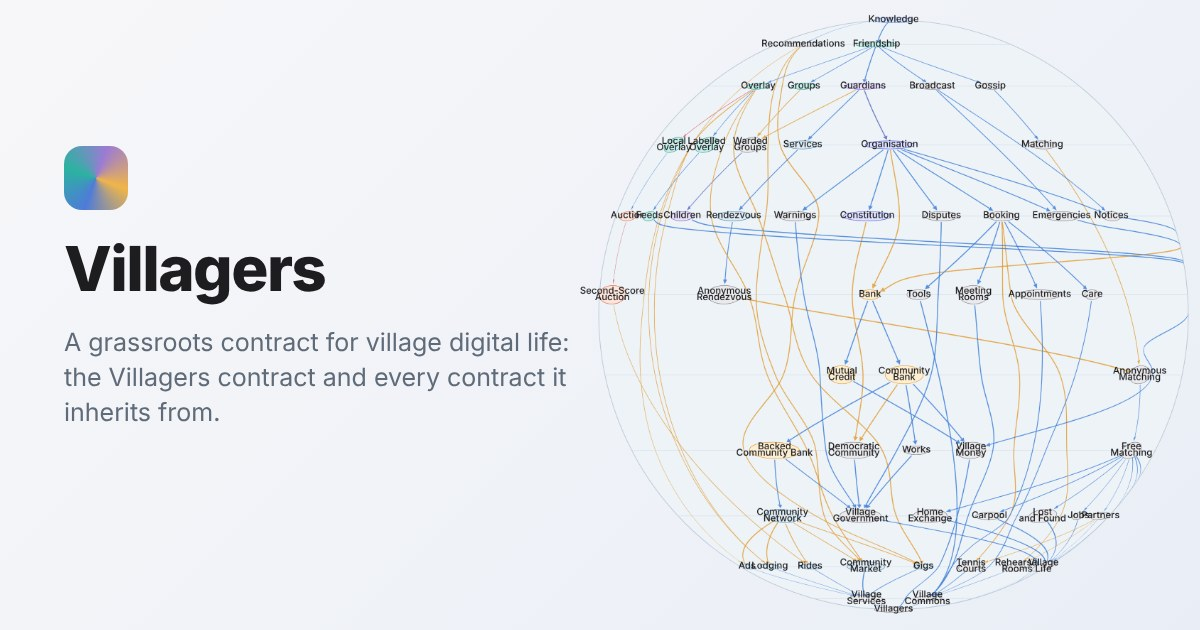
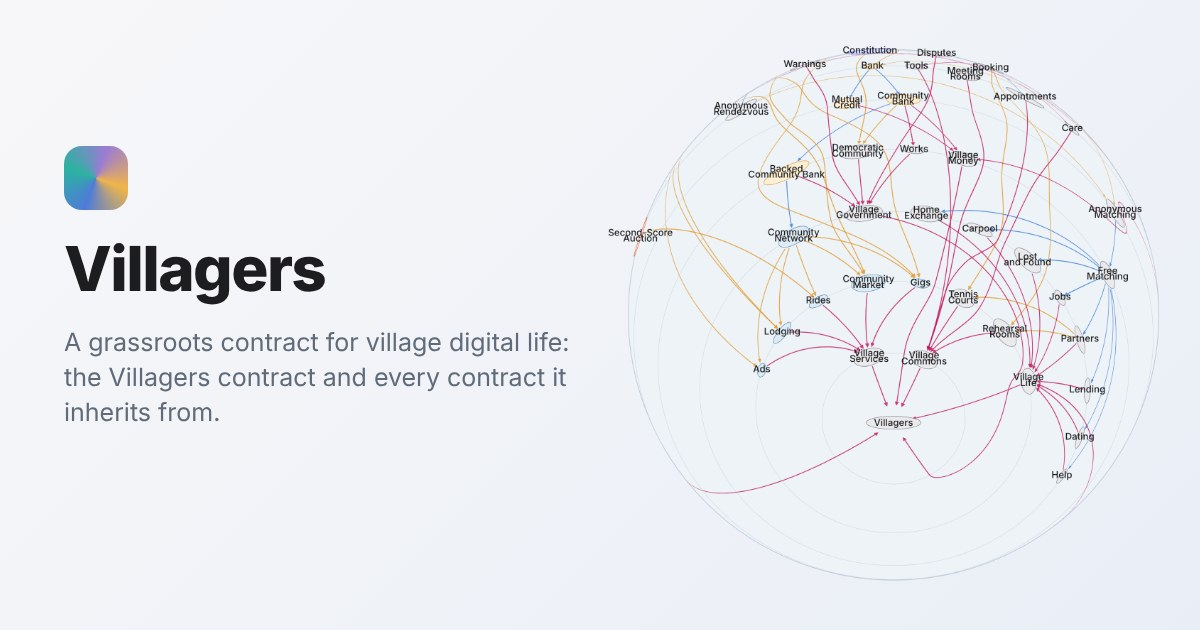
Villagers link preview shows the south pole, as the opening screen does (Udi, 2026-11-25) (#158)
Claude-Session: https://claude.ai/code/session_013FJ396cQ5e4kcPJLpJjzQP

Changed region(s): [[0.4933, 0.0, 0.9867, 0.9952]]

diff --git a/servers/peoplesweb/tools/og.js b/servers/peoplesweb/tools/og.js
@@ -4,7 +4,7 @@
 // draws it, whole, its keys left out.
 // Usage, with node and Playwright: node tools/og.js <a directory for the
 // globe's picture and og.jpg> [zoom, a fraction of the page's own, 0.74]
-// [tilt, 0.5]; then copy og.jpg to web/og.jpg.  Made again when the globe or
+// [tilt, 0.55, or open for the opening screen's]; then copy og.jpg to web/og.jpg.  Made again when the globe or
 // the name changes much (Udi, 2026-11-12, to GSA #5, the name).
 const { chromium } = require('playwright');
 const fs = require('fs');
@@ -16,8 +16,10 @@ const fs = require('fs');
   // site's, web/og-villagers.jpg, from peoplesweb.org/villagers/ (Udi,
   // 2026-11-25: "link preview of villagers should reflect what it is").
   await p.goto(process.env.OG_URL || 'https://peoplesweb.org/', { waitUntil: 'load' }); await p.waitForTimeout(1500);
-  const Z = parseFloat(process.argv[3] || '0.5'), T = parseFloat(process.argv[4] || '0.55');
-  console.log('view', await p.evaluate(([z, t]) => { const v0 = JSON.stringify(V); V.zoom = V.zoom * z; V.tilt = t; drawGlobe();
+  // Tilt 'open' keeps the opening screen's tilt: the Villagers site's picture
+  // shows its south pole, as its opening screen does (Udi, 2026-11-25).
+  const Z = parseFloat(process.argv[3] || '0.5'), T = process.argv[4] === 'open' ? null : parseFloat(process.argv[4] || '0.55');
+  console.log('view', await p.evaluate(([z, t]) => { const v0 = JSON.stringify(V); V.zoom = V.zoom * z; if (t !== null) V.tilt = t; drawGlobe();
     document.head.insertAdjacentHTML('beforeend', '<style>#graph .key{display:none}</style>');
     document.body.style.background = 'transparent'; document.documentElement.style.background = 'transparent';
     document.querySelector('#mapcard').style.cssText += ';box-shadow:none;background:transparent;border-radius:0'; return v0 + ' -> ' + JSON.stringify(V); }, [Z, T]));
